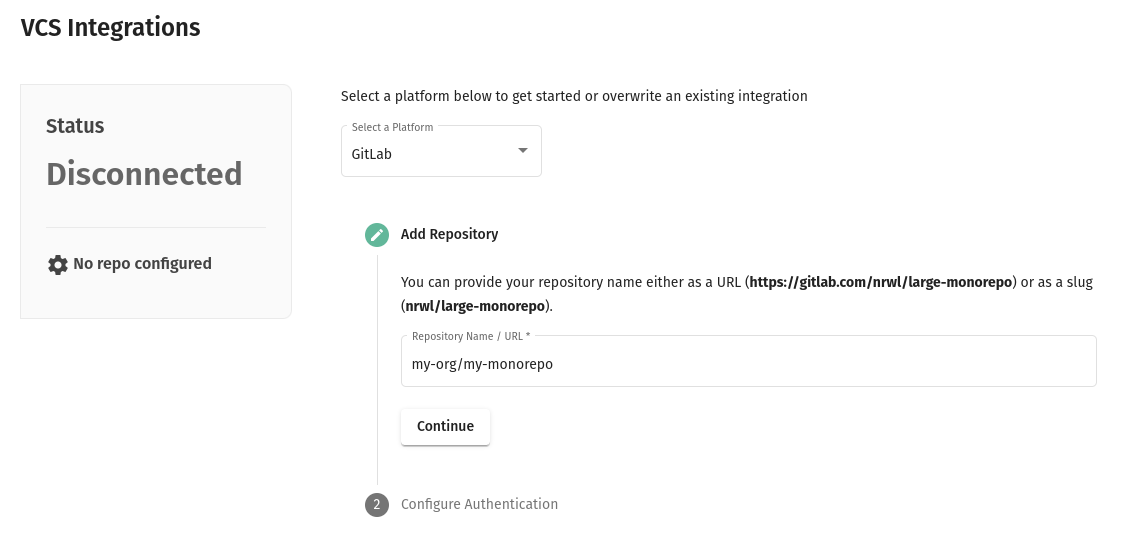
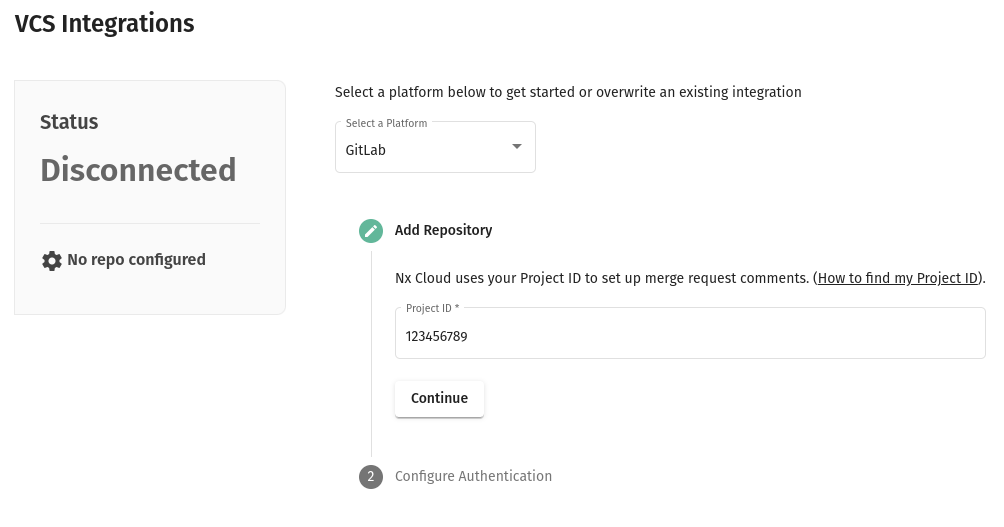
docs(core): update gitlab vcs setup to use project ids

diff --git a/docs/nx-cloud/set-up/gitlab.md b/docs/nx-cloud/set-up/gitlab.md
@@ -8,7 +8,11 @@ The Nx Cloud GitLab Integration lets you access the result of every run—with a
 
 ![Access VCS Setup](/nx-cloud/set-up/access-vcs-setup.png)
 
-Once on the VCS Integrations setup page, select "GitLab" in the platforms dropdown. You will be prompted to enter the name of your repository.
+Once on the VCS Integrations setup page, select "GitLab" in the platforms dropdown. You will be prompted to enter your project's ID.
+
+![Locate Gitlab Project ID](/nx-cloud/set-up/find-gitlab-project-id.png)
+
+To locate the ID for your project, visit the home page of your repository on GitLab. The value can be found underneath the name of your project, and has a clickable button to copy to your clipboard.
 
 ![Add GitLab Repository](/nx-cloud/set-up/add-gitlab-repository.png)
 
